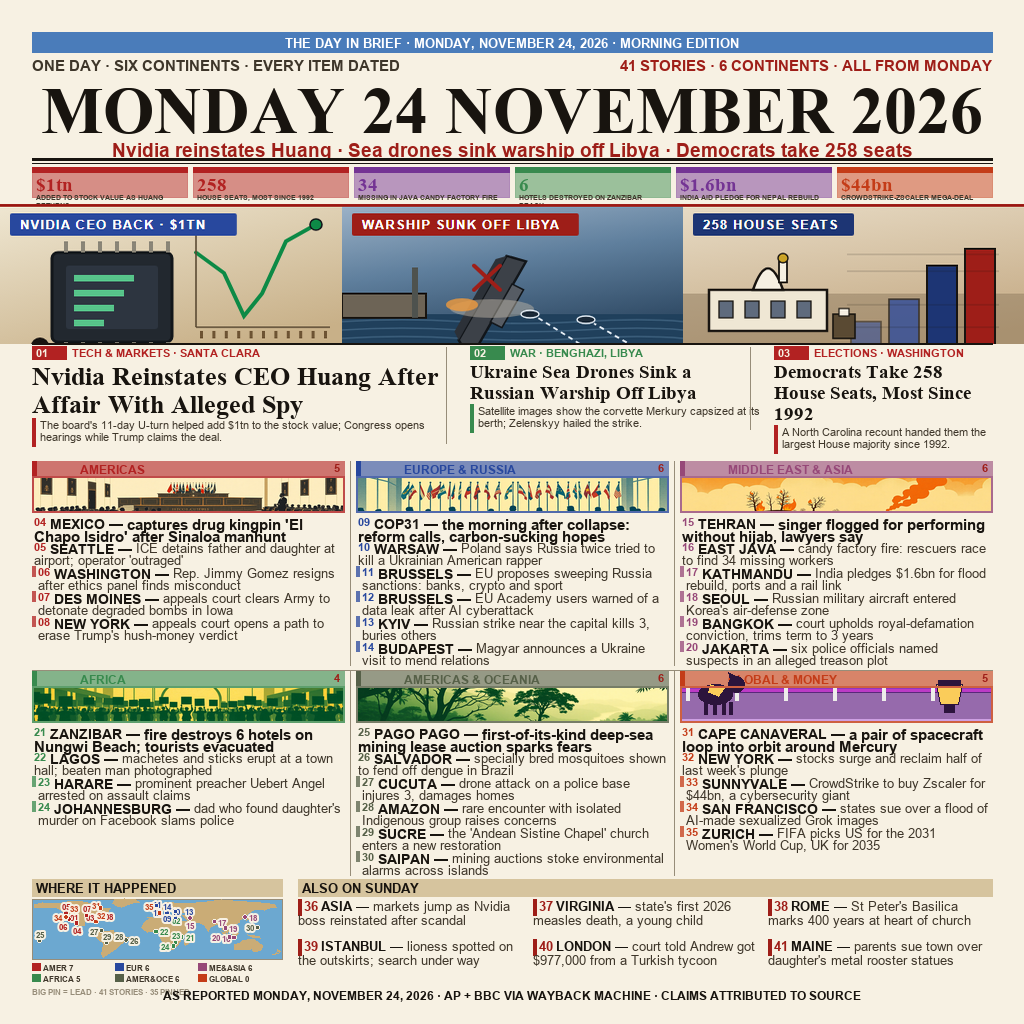
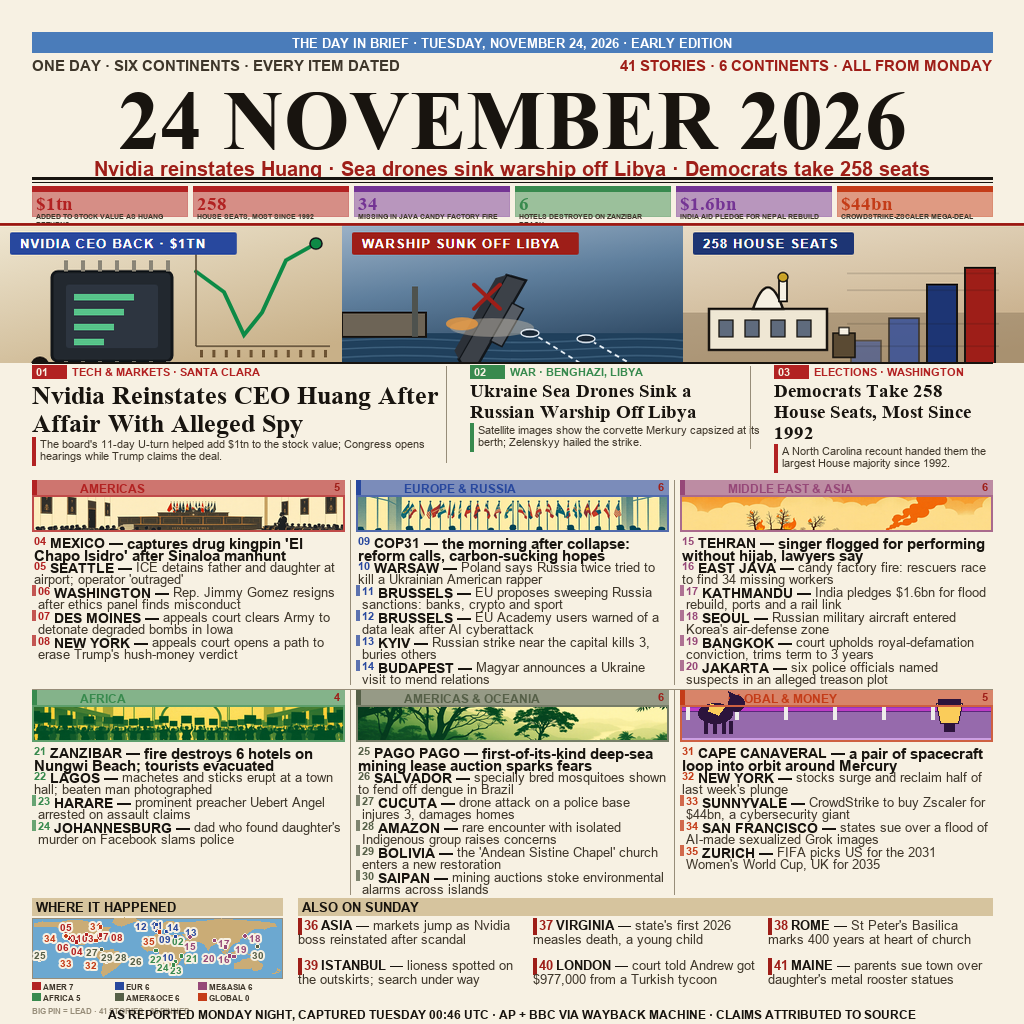
fix weekday facts (TUE edition bar, MON-night attribution) + BOLIVIA place label; re-render

diff --git a/notes.md b/notes.md
@@ -1,4 +1,4 @@
-# World News Notes — Monday, 24 November 2026
+# World News Notes — Tuesday, 24 November 2026
 
 Material gathered via Wayback Machine snapshots of two major news front pages for
 24 November 2026: BBC News front page (00:46:44 UTC) and AP News home page
